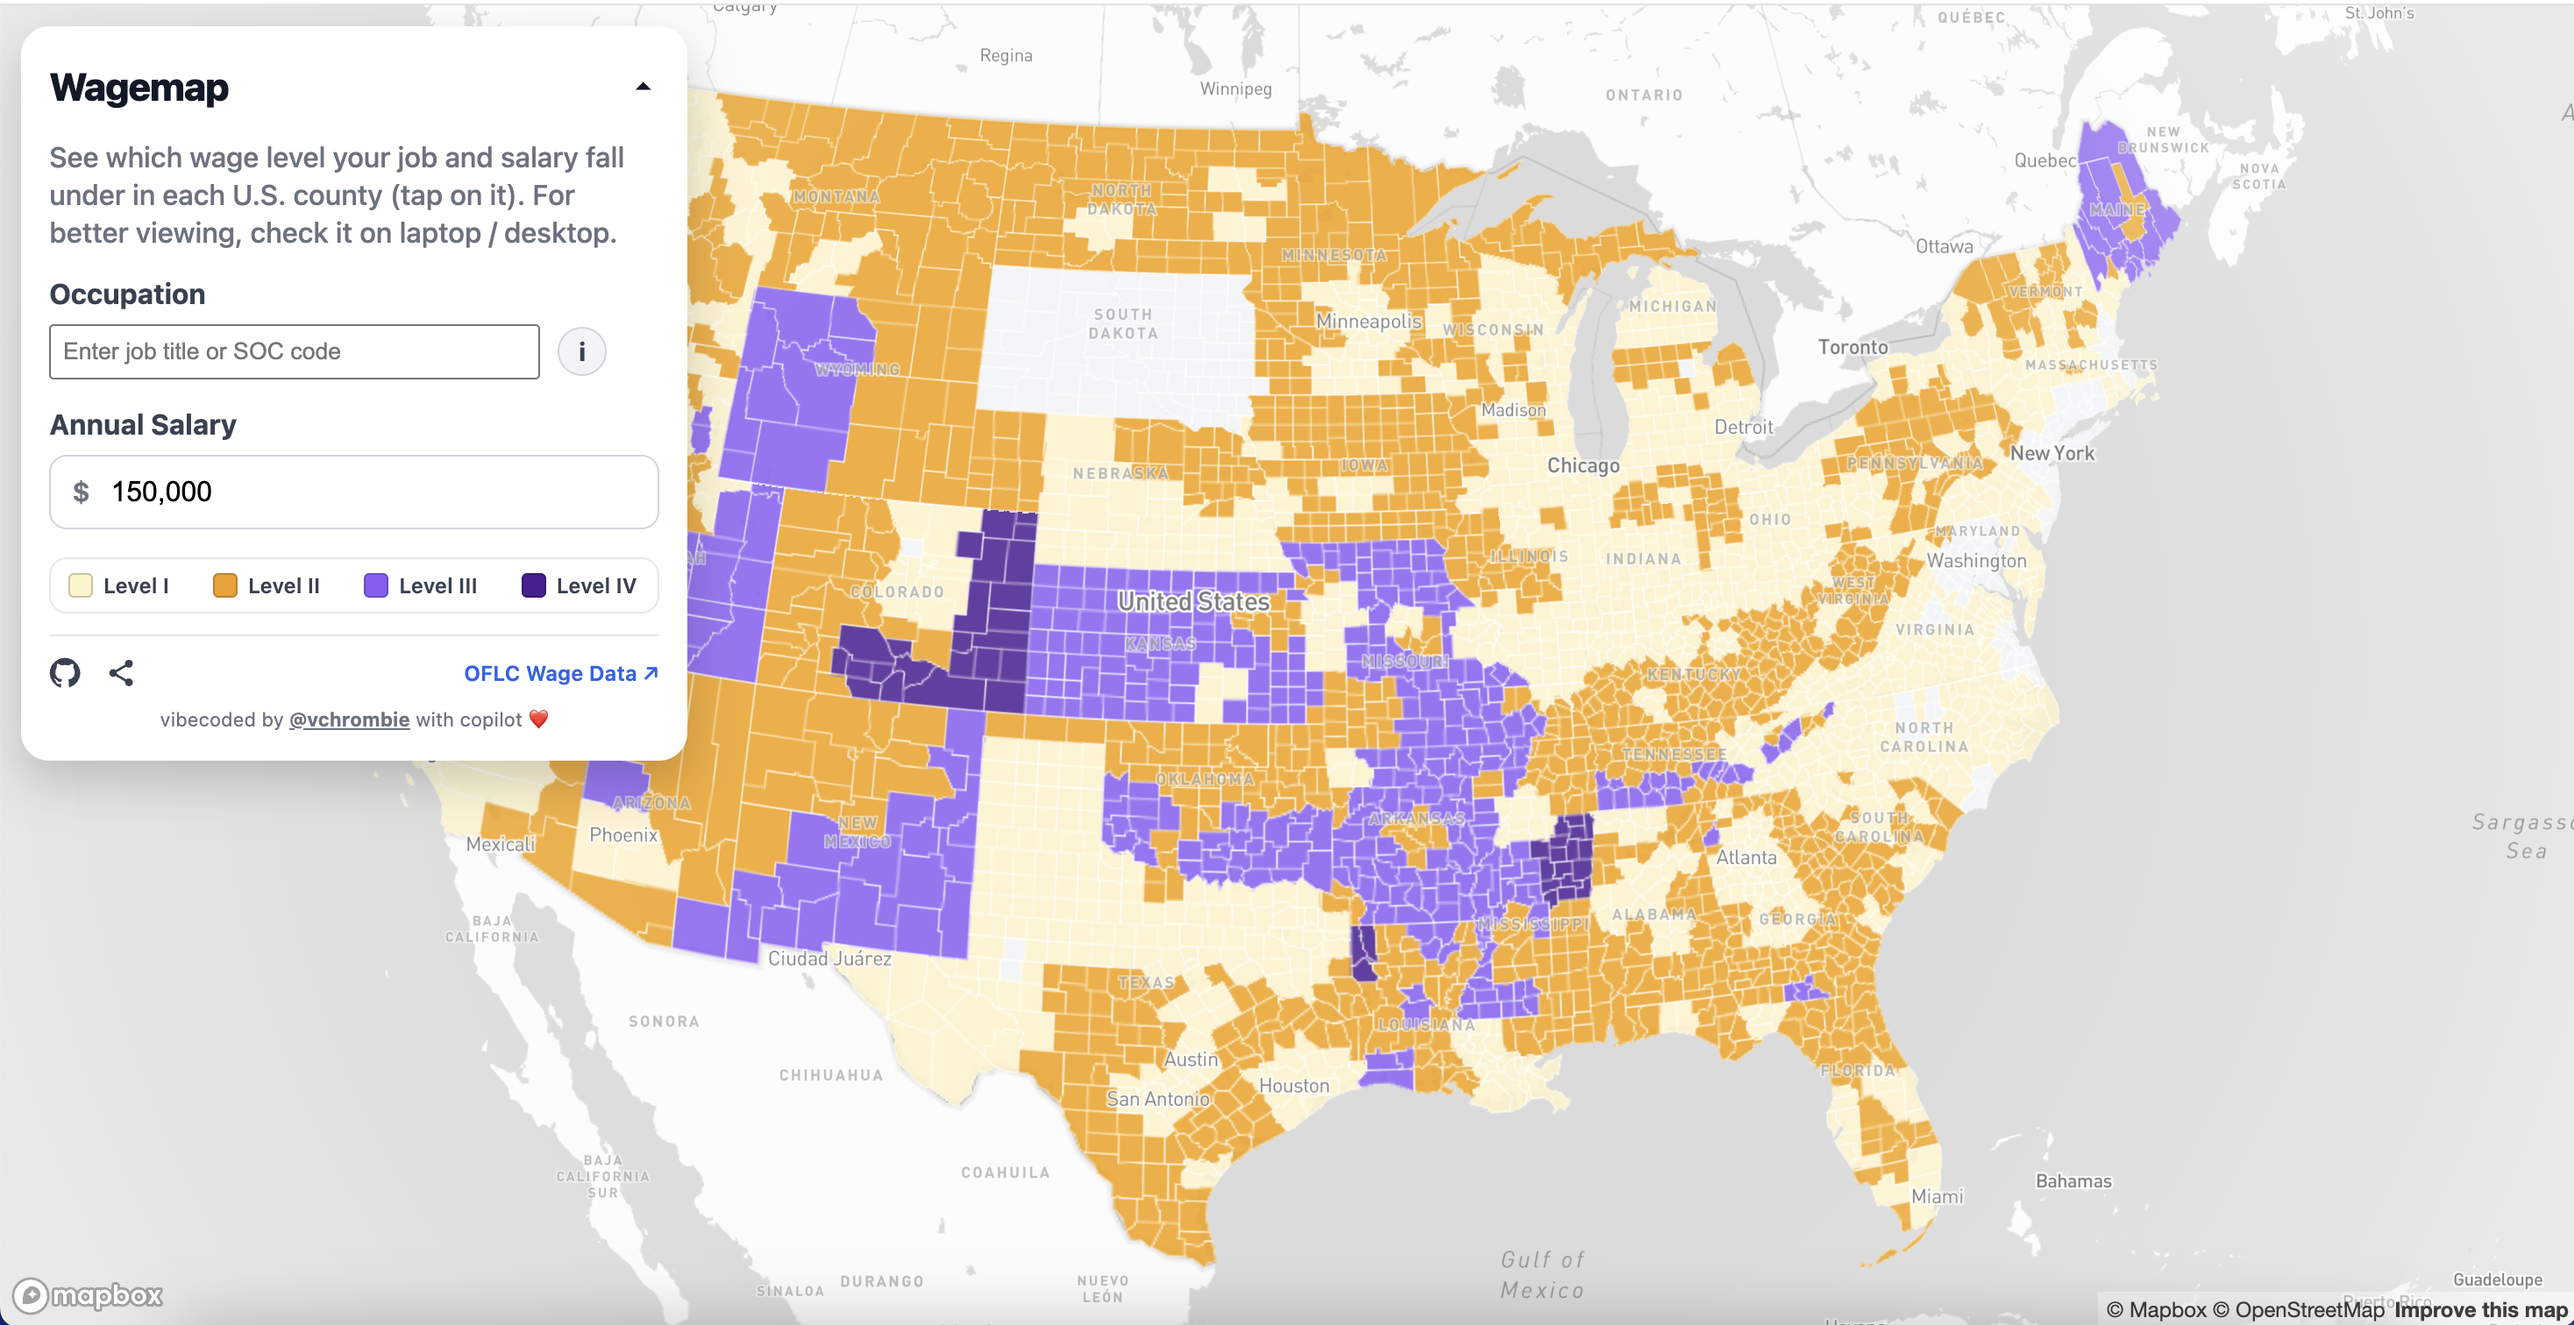
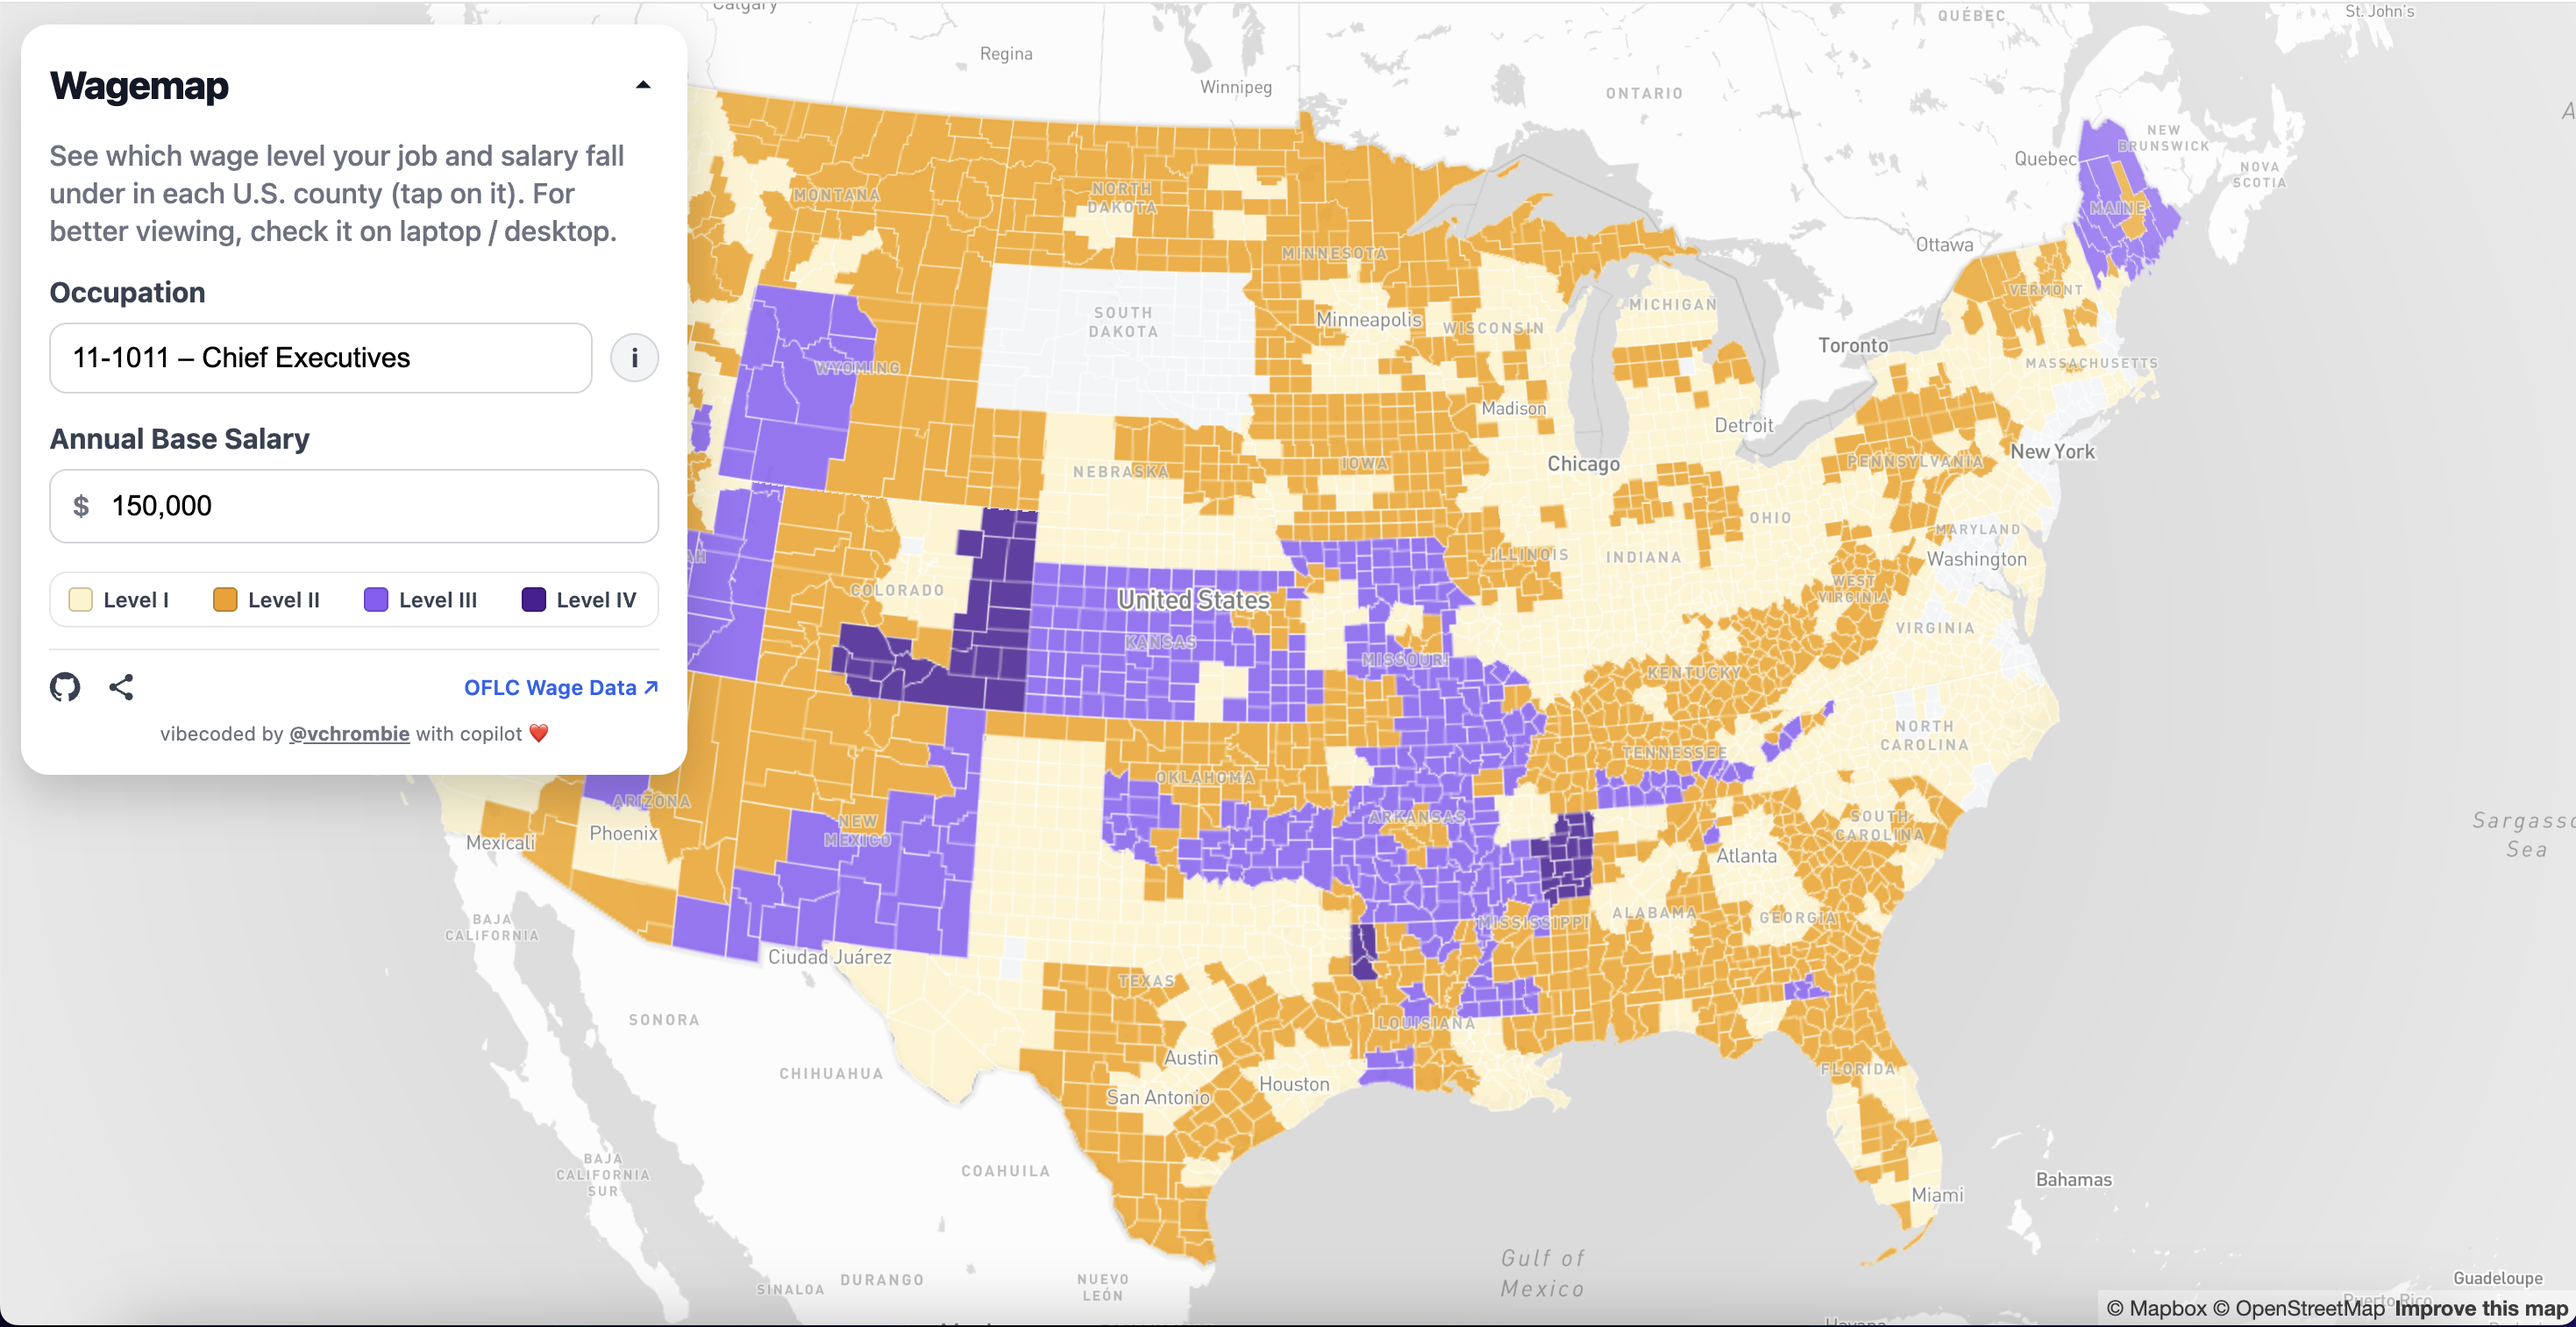
Add more styling changes

diff --git a/src/SocAutocomplete.jsx b/src/SocAutocomplete.jsx
@@ -4,7 +4,7 @@ export default function SocAutocomplete({ value, onSelect }) {
   const wrapperRef = useRef(null);
 
   const [options, setOptions] = useState([]);
-  const [query, setQuery] = useState("");
+  const [query, setQuery] = useState(value ? value : "");
   const [open, setOpen] = useState(false);
 
   // Load SOC options
@@ -33,8 +33,9 @@ export default function SocAutocomplete({ value, onSelect }) {
   );
 
   return (
-    <div ref={wrapperRef} style={{ position: "relative", width: 280 }}>
+    <div ref={wrapperRef} style={{ position: "relative", width: 400 }}>
       <input
+        className="input-box"
         type="text"
         value={query}
         placeholder="Enter job title or SOC code"
@@ -43,9 +44,7 @@ export default function SocAutocomplete({ value, onSelect }) {
           setQuery(e.target.value);
           setOpen(true);
         }}
-        style={{ width: "100%", padding: "6px" }}
       />
-
       {open && filtered.length > 0 && (
         <div
           style={{
@@ -63,8 +62,9 @@ export default function SocAutocomplete({ value, onSelect }) {
             <div
               key={o.code}
               onClick={() => {
-                onSelect(o.parent);
-                setQuery(`${o.code} – ${o.title}`);
+                const display = `${o.code} – ${o.title}`;
+                onSelect(o.parent, display);
+                setQuery(display);
                 setOpen(false);
               }}
               style={{

diff --git a/src/Map.jsx b/src/Map.jsx
@@ -38,6 +38,8 @@ export default function Map() {
 
   const [collapsed, setCollapsed] = useState(false);
   const [soc, setSoc] = useState("11-1011");
+  const [socText, setSocText] = useState("11-1011 – Chief Executives");
+
   const [salary, setSalary] = useState(150000);
 
   function handleShare() {
@@ -236,9 +238,10 @@ export default function Map() {
 
               <div className="row">
                 <SocAutocomplete
-                  value={soc}
-                  onSelect={(code) => {
+                  value={socText}
+                  onSelect={(code, display) => {
                     setSoc(code);
+                    setSocText(display);
                     updateLevels(code, salary);
                   }}
                 />
@@ -282,7 +285,7 @@ export default function Map() {
             </div>
 
             <div className="section">
-              <label className="label">Annual Salary</label>
+              <label className="label">Annual Base Salary</label>
 
               <div className="salary-input">
                 <span>$</span>

diff --git a/src/Map.css b/src/Map.css
@@ -260,3 +260,16 @@
 .info-tooltip a:hover {
     text-decoration: underline;
 }
+
+.input-box {
+    width: 100%;
+    border: 1px solid #d1d5db;
+    border-radius: 10px;
+    padding: 10px 12px;
+    font-size: 16px;
+    outline: none;
+}
+
+.input-box:focus {
+    border-color: #2563eb;
+}
